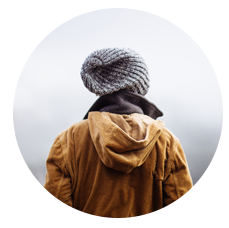
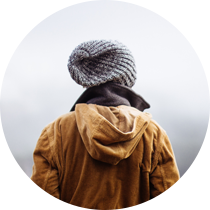
adaptive for works

Changed region(s): [[0.0, 0.1714, 1.0, 1.0]]

diff --git a/index.html b/index.html
@@ -245,41 +245,38 @@
         veniam, quis nostrud exercitation ullamco laboris nisi ut aliquip ex ea commodo consequat.</p> 
       </div>
     </div>
-  </div>
-</section>
-
-
+  
     <div class="wedo">
-      <div class="wedo__item"> 
-        <img class="wedo__img" src="../mogo_site/assets/foto/service2/we_do.jpg" 
-          alt="Фото на стене">
-      </div>
       
-      <div class="wedo__item"> 
-
-        <div class="accordion">
-          <div class="accordion__item active">
-            <div class="accordion__header">
-              <img class="accordion__icon" 
-              src="../mogo_site/assets/foto/service2/icons/pic1.jpg" alt="">
-              <div class="accordion_title">Photography</div>
+        <div class="wedo__item"> 
+          <img class="wedo__img" src="../mogo_site/assets/foto/service2/we_do.jpg" 
+            alt="Фото на стене">
+        </div>
+      
+        <div class="wedo__item"> 
+          <div class="accordion">
+            <div class="accordion__item active">
+              <div class="accordion__header">
+                <img class="accordion__icon" 
+                src="../mogo_site/assets/foto/service2/icons/pic1.jpg" alt="">
+                <div class="accordion_title">Photography</div>
               </div>
-            <div class="accordion__content">
+              <div class="accordion__content">
                 Lorem ipsum dolor sit amet, consectetur adipiscing elit, sed do eiusmod tempor<br> 
                 incididunt ut labore et dolore magna aliqua. Ut enim ad minim veniam, quis nostrud<br> 
                 exercitation ullamco laboris nisi ut aliquip ex ea commodo consequat. Duis aute irure<br> 
                 dolor in reprehenderit in voluptate velit esse cillum dolore eu fugiat nulla pariatur.<br>
                 Excepteur sint occaecat cupidatat non proident, sunt in culpa qui officia deserunt<br> 
                 mollit anim id est laborum.
+              </div>
             </div>
-          </div>
 
-          <div class="accordion__item">
-            <div class="accordion__header">
-              <img class="accordion__icon" 
-              src="../mogo_site/assets/foto/service2/icons/pic2.jpg" alt="">
+            <div class="accordion__item">
+              <div class="accordion__header">
+                <img class="accordion__icon" 
+                  src="../mogo_site/assets/foto/service2/icons/pic2.jpg" alt="">
               <div class="accordion__title">Creativity</div>
-            </div>
+              </div>
             <div class="accordion__content">
                 Lorem ipsum dolor sit amet, consectetur adipiscing elit, sed do eiusmod tempor<br> 
                 incididunt ut labore et dolore magna aliqua. Ut enim ad minim veniam, quis nostrud<br> 
@@ -306,11 +303,12 @@
             </div>
           </div>
         </div>
-      </div>
+        </div>
 
     </div>
   </div>
 </section>
+
 
 <div class="section  section--gray">
   <div class="container">
@@ -444,22 +442,22 @@
   <div class="container">
     <div class="logos">
       <div class="logos__item">
-        <img src="../mogo_site/assets/foto/logos/logos1.png" alt="">
+        <img class="logos__img" src="../mogo_site/assets/foto/logos/logos1.png" alt="">
       </div>
       <div class="logos__item">
-        <img src="../mogo_site/assets/foto/logos/logos2.png" alt="">
+        <img class="logos__img" src="../mogo_site/assets/foto/logos/logos2.png" alt="">
       </div>
       <div class="logos__item">  
-        <img src="../mogo_site/assets/foto/logos/logos3.png" alt="">
+        <img class="logos__img" src="../mogo_site/assets/foto/logos/logos3.png" alt="">
       </div>
       <div class="logos__item">  
-        <img src="../mogo_site/assets/foto/logos/logos4.png" alt="">
+        <img class="logos__img" src="../mogo_site/assets/foto/logos/logos4.png" alt="">
       </div>
       <div class="logos__item">  
-        <img src="../mogo_site/assets/foto/logos/logos5.png" alt="">
+        <img class="logos__img" src="../mogo_site/assets/foto/logos/logos5.png" alt="">
       </div>
       <div class="logos__item">  
-        <img src="../mogo_site/assets/foto/logos/logos6.png" alt="">
+        <img class="logos__img" src="../mogo_site/assets/foto/logos/logos6.png" alt="">
       </div>
     </div><!-- /.logos -->
   </div>

diff --git a/assets/css/style.css b/assets/css/style.css
@@ -508,7 +508,7 @@ hr {
 .wedo {
     display: flex;
     flex-wrap: wrap;
-    /* margin: 0 -15px;       */
+    margin: 0 -15px;      
 }
   
 .wedo__item {
@@ -615,7 +615,7 @@ hr {
 }
 
 .reviews__item {
-    padding-left: 205px;
+    padding-left: 255px;
     position: relative;
    
 }
@@ -630,7 +630,7 @@ hr {
     
     position: absolute;
     top: 0;
-    left: -50px;
+    left: 0;
     z-index: 1;
     
 }
@@ -767,7 +767,18 @@ hr {
     justify-content: space-between;
     background-color: #f8f8f8;
     align-items: center;
+    margin: 0 -15px;
     
+}
+
+.logos__item {
+    padding: 0 15px;
+}
+
+.logos__img {
+    display: block;
+    max-width: 100%;
+    height: auto;
 }
 
 
@@ -1490,7 +1501,7 @@ hr {
         display: none;
     }
 
-    .works__item {
+    .wedo__item {
         width: 100%;
     }
 
@@ -1498,12 +1509,25 @@ hr {
 
     .reviews__photo {
         position: static;
-        margin: 0 auto;
+        margin: 0 auto 20px;
     }
 
     .reviews__item {
         padding-left: 0;
     }
+
+    .reviews__text {
+        font-size: 16px;
+    }
+
+    .reviews__author {
+        font-size: 20px;
+
+    }
+
+    /* Works */
+
+    
 
 }
 
@@ -1564,5 +1588,30 @@ hr {
         bottom: -50px;
         right: -80px;
     }
-    
+
+    /* Reviews */
+
+    .reviews {
+        padding: 0;
+    }
+
+    .reviews__btn {
+        top: 18%;
+    }
+
+    /* logos */
+
+    .logos {
+        flex-wrap: wrap;
+        justify-content: center;
+    }   
+
+    .logos__item {
+        width: 50%;
+        margin-bottom: 20px;
+    }
+
+    .logos__img {
+        margin: 0 auto;
+    }
 }
